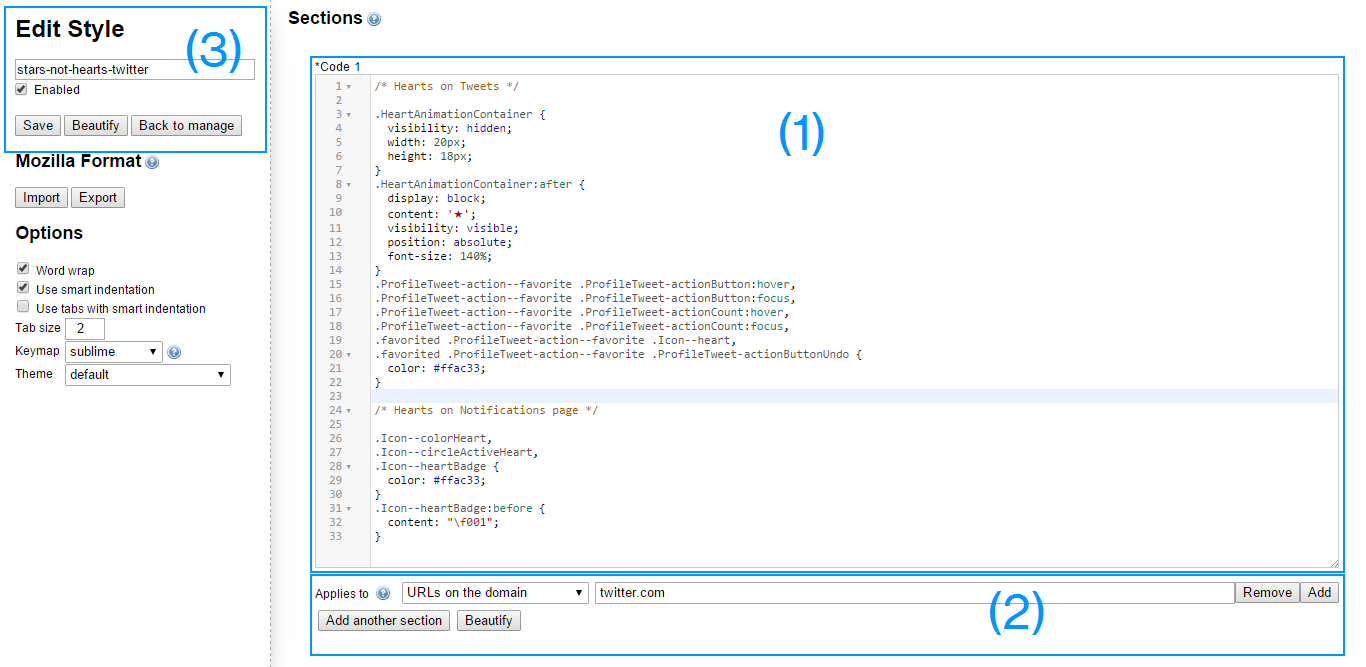
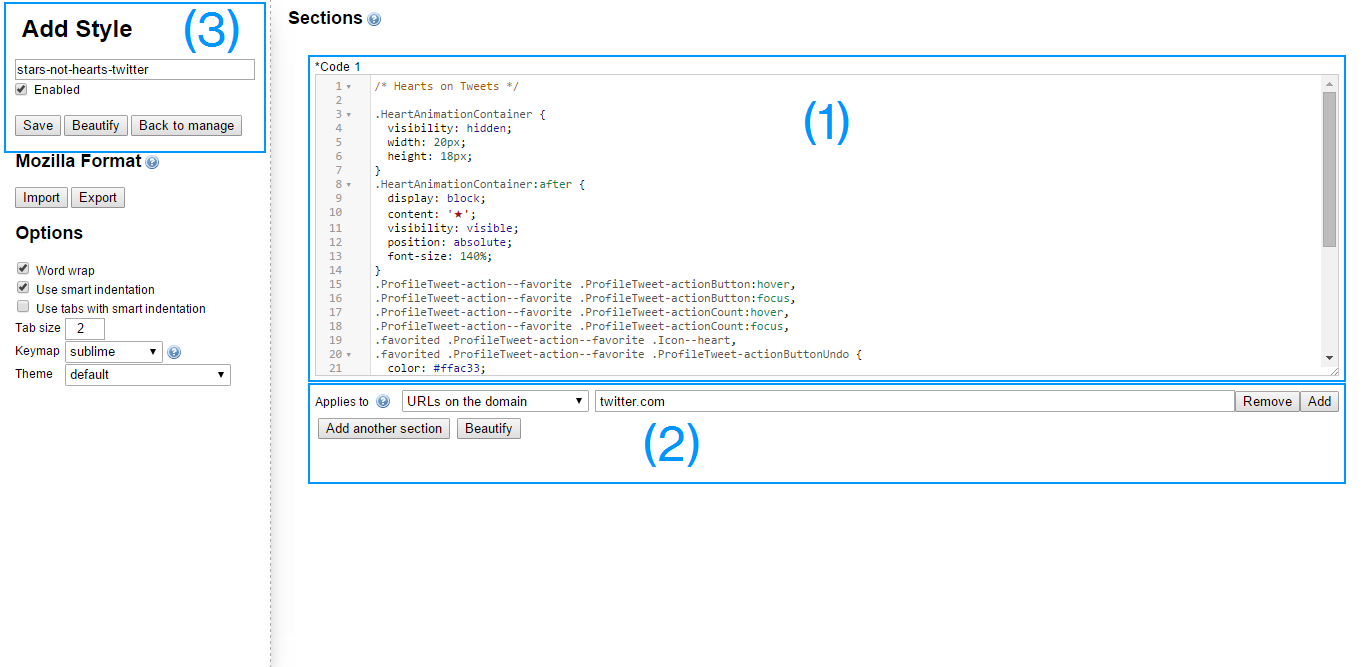
Fixed third image, updated Readme.

diff --git a/README.md b/README.md
@@ -2,7 +2,7 @@
 
 > Custom CSS to replace Twitter's heart icons with stars.
 
-## Usage
+## How to install
 
 First, you will need to download Stylish.
 
@@ -11,11 +11,27 @@ First, you will need to download Stylish.
 
 Once installed, click on the Stylish icon and click "Manage installed styles."
 
-First, add the contents of `stars-not-hearts-twitter.css` into the textbox, then change the configuration so that it applies to `URLs on the domain: twitter.com`.
+<a href="https://cdn.rawgit.com/resir014/stars-not-hearts/master/images/howto-1.png">
+  <img src="https://cdn.rawgit.com/resir014/stars-not-hearts/master/images/howto-1.png" alt="howto-1" />
+</a>
 
-If you want to change the icons for TweetDeck as well, create a new style and do the same thing, this time for `stars-not-hearts-tweetdeck.css` and domain `tweetdeck.twitter.com`.
+Then click on "Add New Style" to create a new custom style.
+
+<a href="https://cdn.rawgit.com/resir014/stars-not-hearts/master/images/howto-2.png">
+  <img src="https://cdn.rawgit.com/resir014/stars-not-hearts/master/images/howto-2.png" alt="howto-2" />
+</a>
+
+On the "Add Style" screen, paste the stylesheets on `stars-not-hearts-twitter.css` into the textbox at (1). Then change the configuration at the bottom to the settings shown at (2). Then name your custom styles as you desire at (3).
+
+<a href="https://cdn.rawgit.com/resir014/stars-not-hearts/master/images/howto-3.png">
+  <img src="https://cdn.rawgit.com/resir014/stars-not-hearts/master/images/howto-3.png" alt="howto-3" />
+</a>
 
 Save your changes, and the star should be back!
+
+### TweetDeck
+
+For TweetDeck, do the same, but make sure you used the stylesheets on `stars-not-hearts-tweetdeck.css` and the domain is set to `tweetdeck.twitter.com`.
 
 ## License
 
